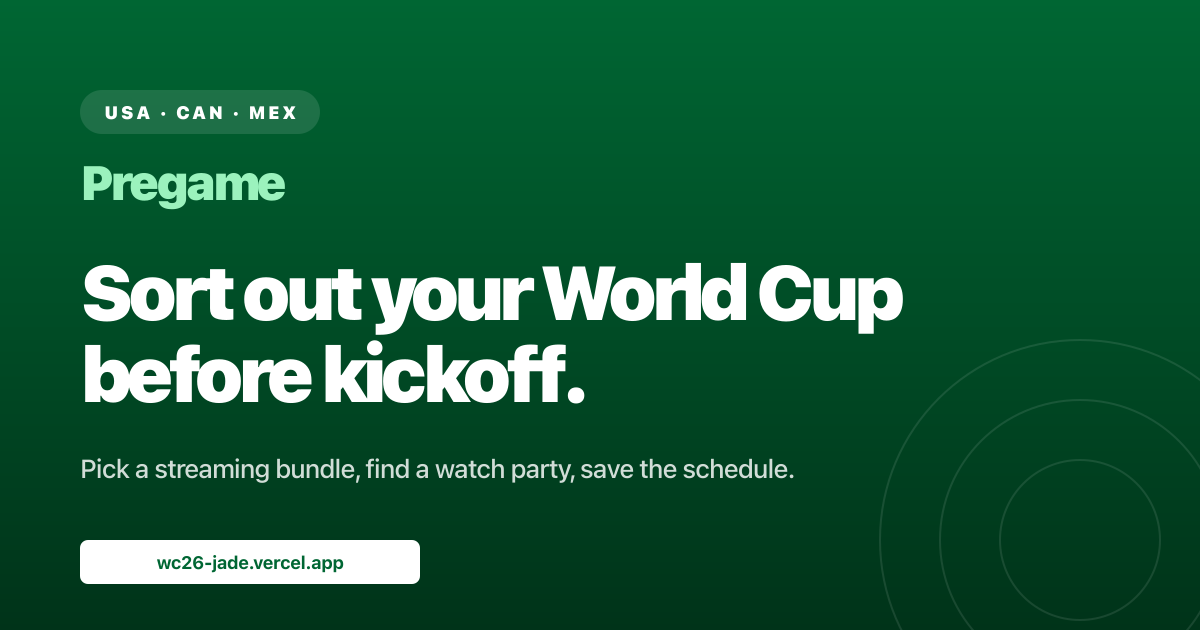
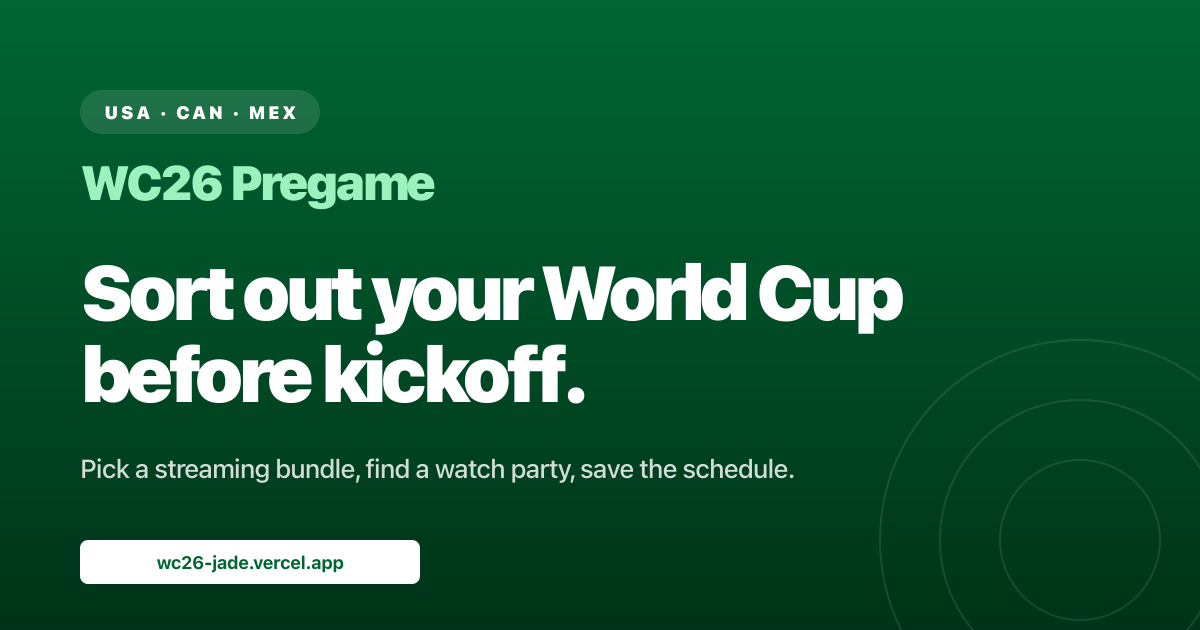
Rebrand: Pregame -> WC26 Pregame
Tournament anchor restored to the brand. "Pregame" alone was too generic
(could be anything), "WC26 Pregame" makes the World Cup context immediate.

Single-color wordmark treatment retained (green, 900-weight, same as the
solo Pregame styling); the two-word brand renders as one cohesive unit
rather than the split styling we used for "WC26 Anywhere" (where WC26
was emphasized and Anywhere recessed).

Updated everywhere:
- <title> tags (all 4 pages, "WC26 Pregame: [page]")
- <meta description> + og:title + og:description (all 4 pages)
- Header brand link (all 4 pages, single-color green wordmark)
- Footer brand statement (all 4 pages)
- JS file headers (5 files)
- .ics calendar event description ("Via WC26 Pregame")
- ICS PRODID ("-//WC26 Pregame//EN")

OG image regenerated:
- og.svg wordmark text updated
- og.png re-rasterized via rsvg-convert (1200x630)

GitHub repo description updated via gh repo edit.

Site functionality, layout, colors, motif, voice rules: all unchanged.

Changed region(s): [[0.0617, 0.2413, 0.37, 0.3317]]

diff --git a/index.html b/index.html
@@ -3,11 +3,11 @@
 <head>
   <meta charset="UTF-8">
   <meta name="viewport" content="width=device-width, initial-scale=1.0">
-  <title>Pregame: sort out your 2026 World Cup</title>
+  <title>WC26 Pregame: sort out your 2026 World Cup</title>
   <meta name="description" content="Sort out your 2026 World Cup before kickoff. Streaming picker, schedule in your time zone, country-specific watch parties. Free, no signup.">
   <meta name="theme-color" content="#006633">
 
-  <meta property="og:title" content="Pregame: sort out your 2026 World Cup">
+  <meta property="og:title" content="WC26 Pregame: sort out your 2026 World Cup">
   <meta property="og:description" content="Streaming picker, schedule in your time zone, country-specific watch parties. Free, no signup.">
   <meta property="og:image" content="https://wc26-jade.vercel.app/og.png">
   <meta property="og:image:width" content="1200">
@@ -23,7 +23,7 @@
 <body>
   <header>
     <div class="container">
-      <a href="/" class="brand">Pregame</a>
+      <a href="/" class="brand">WC26 Pregame</a>
       <nav aria-label="Primary">
         <ul>
           <li><a href="/" class="active">Home</a></li>
@@ -115,7 +115,7 @@
         <span class="trust-pill">✓ No signup</span>
         <span class="trust-pill">✓ No tracking</span>
       </div>
-      <p>Pregame is by a fan, for fans. Free, no signup, no tracking. Streaming prices change monthly, so verify before subscribing.</p>
+      <p>WC26 Pregame is by a fan, for fans. Free, no signup, no tracking. Streaming prices change monthly, so verify before subscribing.</p>
     </div>
   </footer>
 

diff --git a/schedule.html b/schedule.html
@@ -3,11 +3,11 @@
 <head>
   <meta charset="UTF-8">
   <meta name="viewport" content="width=device-width, initial-scale=1.0">
-  <title>Pregame: 2026 World Cup schedule</title>
+  <title>WC26 Pregame: 2026 World Cup schedule</title>
   <meta name="description" content="All 104 matches of the 2026 FIFA World Cup in your time zone. Pin your teams. Add any match (or all of them) to your calendar. Free, no signup.">
   <meta name="theme-color" content="#006633">
 
-  <meta property="og:title" content="Pregame: 2026 World Cup schedule">
+  <meta property="og:title" content="WC26 Pregame: 2026 World Cup schedule">
   <meta property="og:description" content="All 104 matches in your time zone. Pin your teams. Add any match (or all of them) to your calendar.">
   <meta property="og:image" content="https://wc26-jade.vercel.app/og.png">
   <meta property="og:image:width" content="1200">
@@ -23,7 +23,7 @@
 <body>
   <header>
     <div class="container">
-      <a href="/" class="brand">Pregame</a>
+      <a href="/" class="brand">WC26 Pregame</a>
       <nav aria-label="Primary">
         <ul>
           <li><a href="/">Home</a></li>
@@ -76,7 +76,7 @@
         <span class="trust-pill">✓ No signup</span>
         <span class="trust-pill">✓ No tracking</span>
       </div>
-      <p>Pregame is by a fan, for fans. Free, no signup, no tracking. Streaming prices change monthly, so verify before subscribing.</p>
+      <p>WC26 Pregame is by a fan, for fans. Free, no signup, no tracking. Streaming prices change monthly, so verify before subscribing.</p>
     </div>
   </footer>
 

diff --git a/streaming.html b/streaming.html
@@ -3,11 +3,11 @@
 <head>
   <meta charset="UTF-8">
   <meta name="viewport" content="width=device-width, initial-scale=1.0">
-  <title>Pregame: pick your 2026 World Cup streaming bundle</title>
+  <title>WC26 Pregame: pick your 2026 World Cup streaming bundle</title>
   <meta name="description" content="Pick the right 2026 World Cup streaming bundle in 30 seconds. Free quiz matches your team, language, and budget. Full comparison across FOX One, Peacock, Sling, Fubo, YouTube TV, Hulu, Tubi, and OTA antenna.">
   <meta name="theme-color" content="#006633">
 
-  <meta property="og:title" content="Pregame: pick your 2026 World Cup streaming bundle">
+  <meta property="og:title" content="WC26 Pregame: pick your 2026 World Cup streaming bundle">
   <meta property="og:description" content="30-second quiz matches the right bundle to your team, your language, and your budget. Free, no signup.">
   <meta property="og:image" content="https://wc26-jade.vercel.app/og.png">
   <meta property="og:image:width" content="1200">
@@ -23,7 +23,7 @@
 <body>
   <header>
     <div class="container">
-      <a href="/" class="brand">Pregame</a>
+      <a href="/" class="brand">WC26 Pregame</a>
       <nav aria-label="Primary">
         <ul>
           <li><a href="/">Home</a></li>
@@ -330,7 +330,7 @@
         <span class="trust-pill">✓ No signup</span>
         <span class="trust-pill">✓ No tracking</span>
       </div>
-      <p>Pregame is by a fan, for fans. Free, no signup, no tracking. Streaming prices change monthly, so verify before subscribing.</p>
+      <p>WC26 Pregame is by a fan, for fans. Free, no signup, no tracking. Streaming prices change monthly, so verify before subscribing.</p>
       <p>Have a watch party to add? <a href="/watch-parties">Suggest one here</a> once that page is live.</p>
     </div>
   </footer>

diff --git a/watch-parties.html b/watch-parties.html
@@ -3,11 +3,11 @@
 <head>
   <meta charset="UTF-8">
   <meta name="viewport" content="width=device-width, initial-scale=1.0">
-  <title>Pregame: 2026 World Cup watch parties</title>
+  <title>WC26 Pregame: 2026 World Cup watch parties</title>
   <meta name="description" content="Country-specific bars in 11 US host cities for the 2026 World Cup. Pick a city, a country, or both. Free, no signup.">
   <meta name="theme-color" content="#006633">
 
-  <meta property="og:title" content="Pregame: 2026 World Cup watch parties">
+  <meta property="og:title" content="WC26 Pregame: 2026 World Cup watch parties">
   <meta property="og:description" content="Country-specific bars in 11 US host cities. Pick a city, a country, or both.">
   <meta property="og:image" content="https://wc26-jade.vercel.app/og.png">
   <meta property="og:image:width" content="1200">
@@ -23,7 +23,7 @@
 <body>
   <header>
     <div class="container">
-      <a href="/" class="brand">Pregame</a>
+      <a href="/" class="brand">WC26 Pregame</a>
       <nav aria-label="Primary">
         <ul>
           <li><a href="/">Home</a></li>
@@ -72,7 +72,7 @@
         <span class="trust-pill">✓ No signup</span>
         <span class="trust-pill">✓ No tracking</span>
       </div>
-      <p>Pregame is by a fan, for fans. Free, no signup, no tracking. Streaming prices change monthly, so verify before subscribing.</p>
+      <p>WC26 Pregame is by a fan, for fans. Free, no signup, no tracking. Streaming prices change monthly, so verify before subscribing.</p>
     </div>
   </footer>
 

diff --git a/schedule.js b/schedule.js
@@ -1,4 +1,4 @@
-// Pregame — schedule page logic
+// WC26 Pregame — schedule page logic
 // Vanilla JS, no dependencies. Reads from window.WC26_DATA (schedule-data.js).
 
 (function () {
@@ -170,7 +170,7 @@
     var end = new Date(start.getTime() + 2.5 * 60 * 60 * 1000);
     var title = matchTitle(match, TEAMS);
     var loc = match.venue + ', ' + match.city;
-    var desc = 'Broadcast: ' + match.broadcast.join(', ') + '\\nVia Pregame (wc26-jade.vercel.app)';
+    var desc = 'Broadcast: ' + match.broadcast.join(', ') + '\\nVia WC26 Pregame (wc26-jade.vercel.app)';
     var uid = 'wc26-match-' + match.num + '@wc26-jade.vercel.app';
     return [
       'BEGIN:VEVENT',
@@ -191,7 +191,7 @@
     var lines = [
       'BEGIN:VCALENDAR',
       'VERSION:2.0',
-      'PRODID:-//Pregame//EN',
+      'PRODID:-//WC26 Pregame//EN',
       events,
       'END:VCALENDAR',
     ];

diff --git a/script.js b/script.js
@@ -1,4 +1,4 @@
-// Pregame — streaming quiz + countdown
+// WC26 Pregame — streaming quiz + countdown
 // Vanilla JS, no dependencies. Reads TEAMS from window.WC26_DATA (schedule-data.js).
 
 (function () {
@@ -231,12 +231,12 @@
     var start = new Date('2026-06-20T17:00:00Z'); // 10am Pacific / 1pm Eastern
     var end = new Date(start.getTime() + 30 * 60 * 1000);
     var title = 'Cancel ' + svc.name + ' subscription';
-    var desc = 'The WC Final is in 29 days. Cancel now to avoid the next auto-renewal charge.\\n\\nHow to cancel: ' + (svc.cancelPath || 'Open the service app and find Account or Subscription settings.') + '\\n\\nMost services keep your access through the end of the current billing period, so canceling now still preserves access through the knockouts and the Final.\\n\\nVia Pregame (wc26-jade.vercel.app)';
+    var desc = 'The WC Final is in 29 days. Cancel now to avoid the next auto-renewal charge.\\n\\nHow to cancel: ' + (svc.cancelPath || 'Open the service app and find Account or Subscription settings.') + '\\n\\nMost services keep your access through the end of the current billing period, so canceling now still preserves access through the knockouts and the Final.\\n\\nVia WC26 Pregame (wc26-jade.vercel.app)';
     var uid = 'wc26-cancel-' + serviceId + '@wc26-jade.vercel.app';
     var lines = [
       'BEGIN:VCALENDAR',
       'VERSION:2.0',
-      'PRODID:-//Pregame//EN',
+      'PRODID:-//WC26 Pregame//EN',
       'BEGIN:VEVENT',
       'UID:' + uid,
       'DTSTAMP:' + icsDate(new Date()),

diff --git a/schedule-data.js b/schedule-data.js
@@ -1,4 +1,4 @@
-// Pregame — schedule data
+// WC26 Pregame — schedule data
 // 48 teams, 104 matches (72 group stage + 32 knockout).
 //
 // IMPORTANT: Team-to-group assignments and per-match details (kickoff times,

diff --git a/styles.css b/styles.css
@@ -70,7 +70,7 @@ header .container { display: flex; flex-wrap: wrap; align-items: center; gap: 12
   text-decoration: none;
   letter-spacing: -0.025em;
 }
-/* Legacy split-styling rule, retained for safety; "Pregame" is single-word */
+/* Legacy split-styling rule, retained for safety; "WC26 Pregame" is rendered as one wordmark */
 .brand .brand-mark {
   font-weight: 800;
   color: var(--accent);

diff --git a/watch-parties-data.js b/watch-parties-data.js
@@ -1,4 +1,4 @@
-// Pregame — watch parties data
+// WC26 Pregame — watch parties data
 // Starter list of country-specific and soccer-friendly venues across the
 // 7 most-asked US cities. Sourced from general knowledge of well-known
 // soccer bars + the active Reddit threads linked per city.

diff --git a/watch-parties.js b/watch-parties.js
@@ -1,4 +1,4 @@
-// Pregame — watch parties page logic
+// WC26 Pregame — watch parties page logic
 // Vanilla JS, no dependencies. Reads from window.WC26_WP (watch-parties-data.js).
 
 (function () {